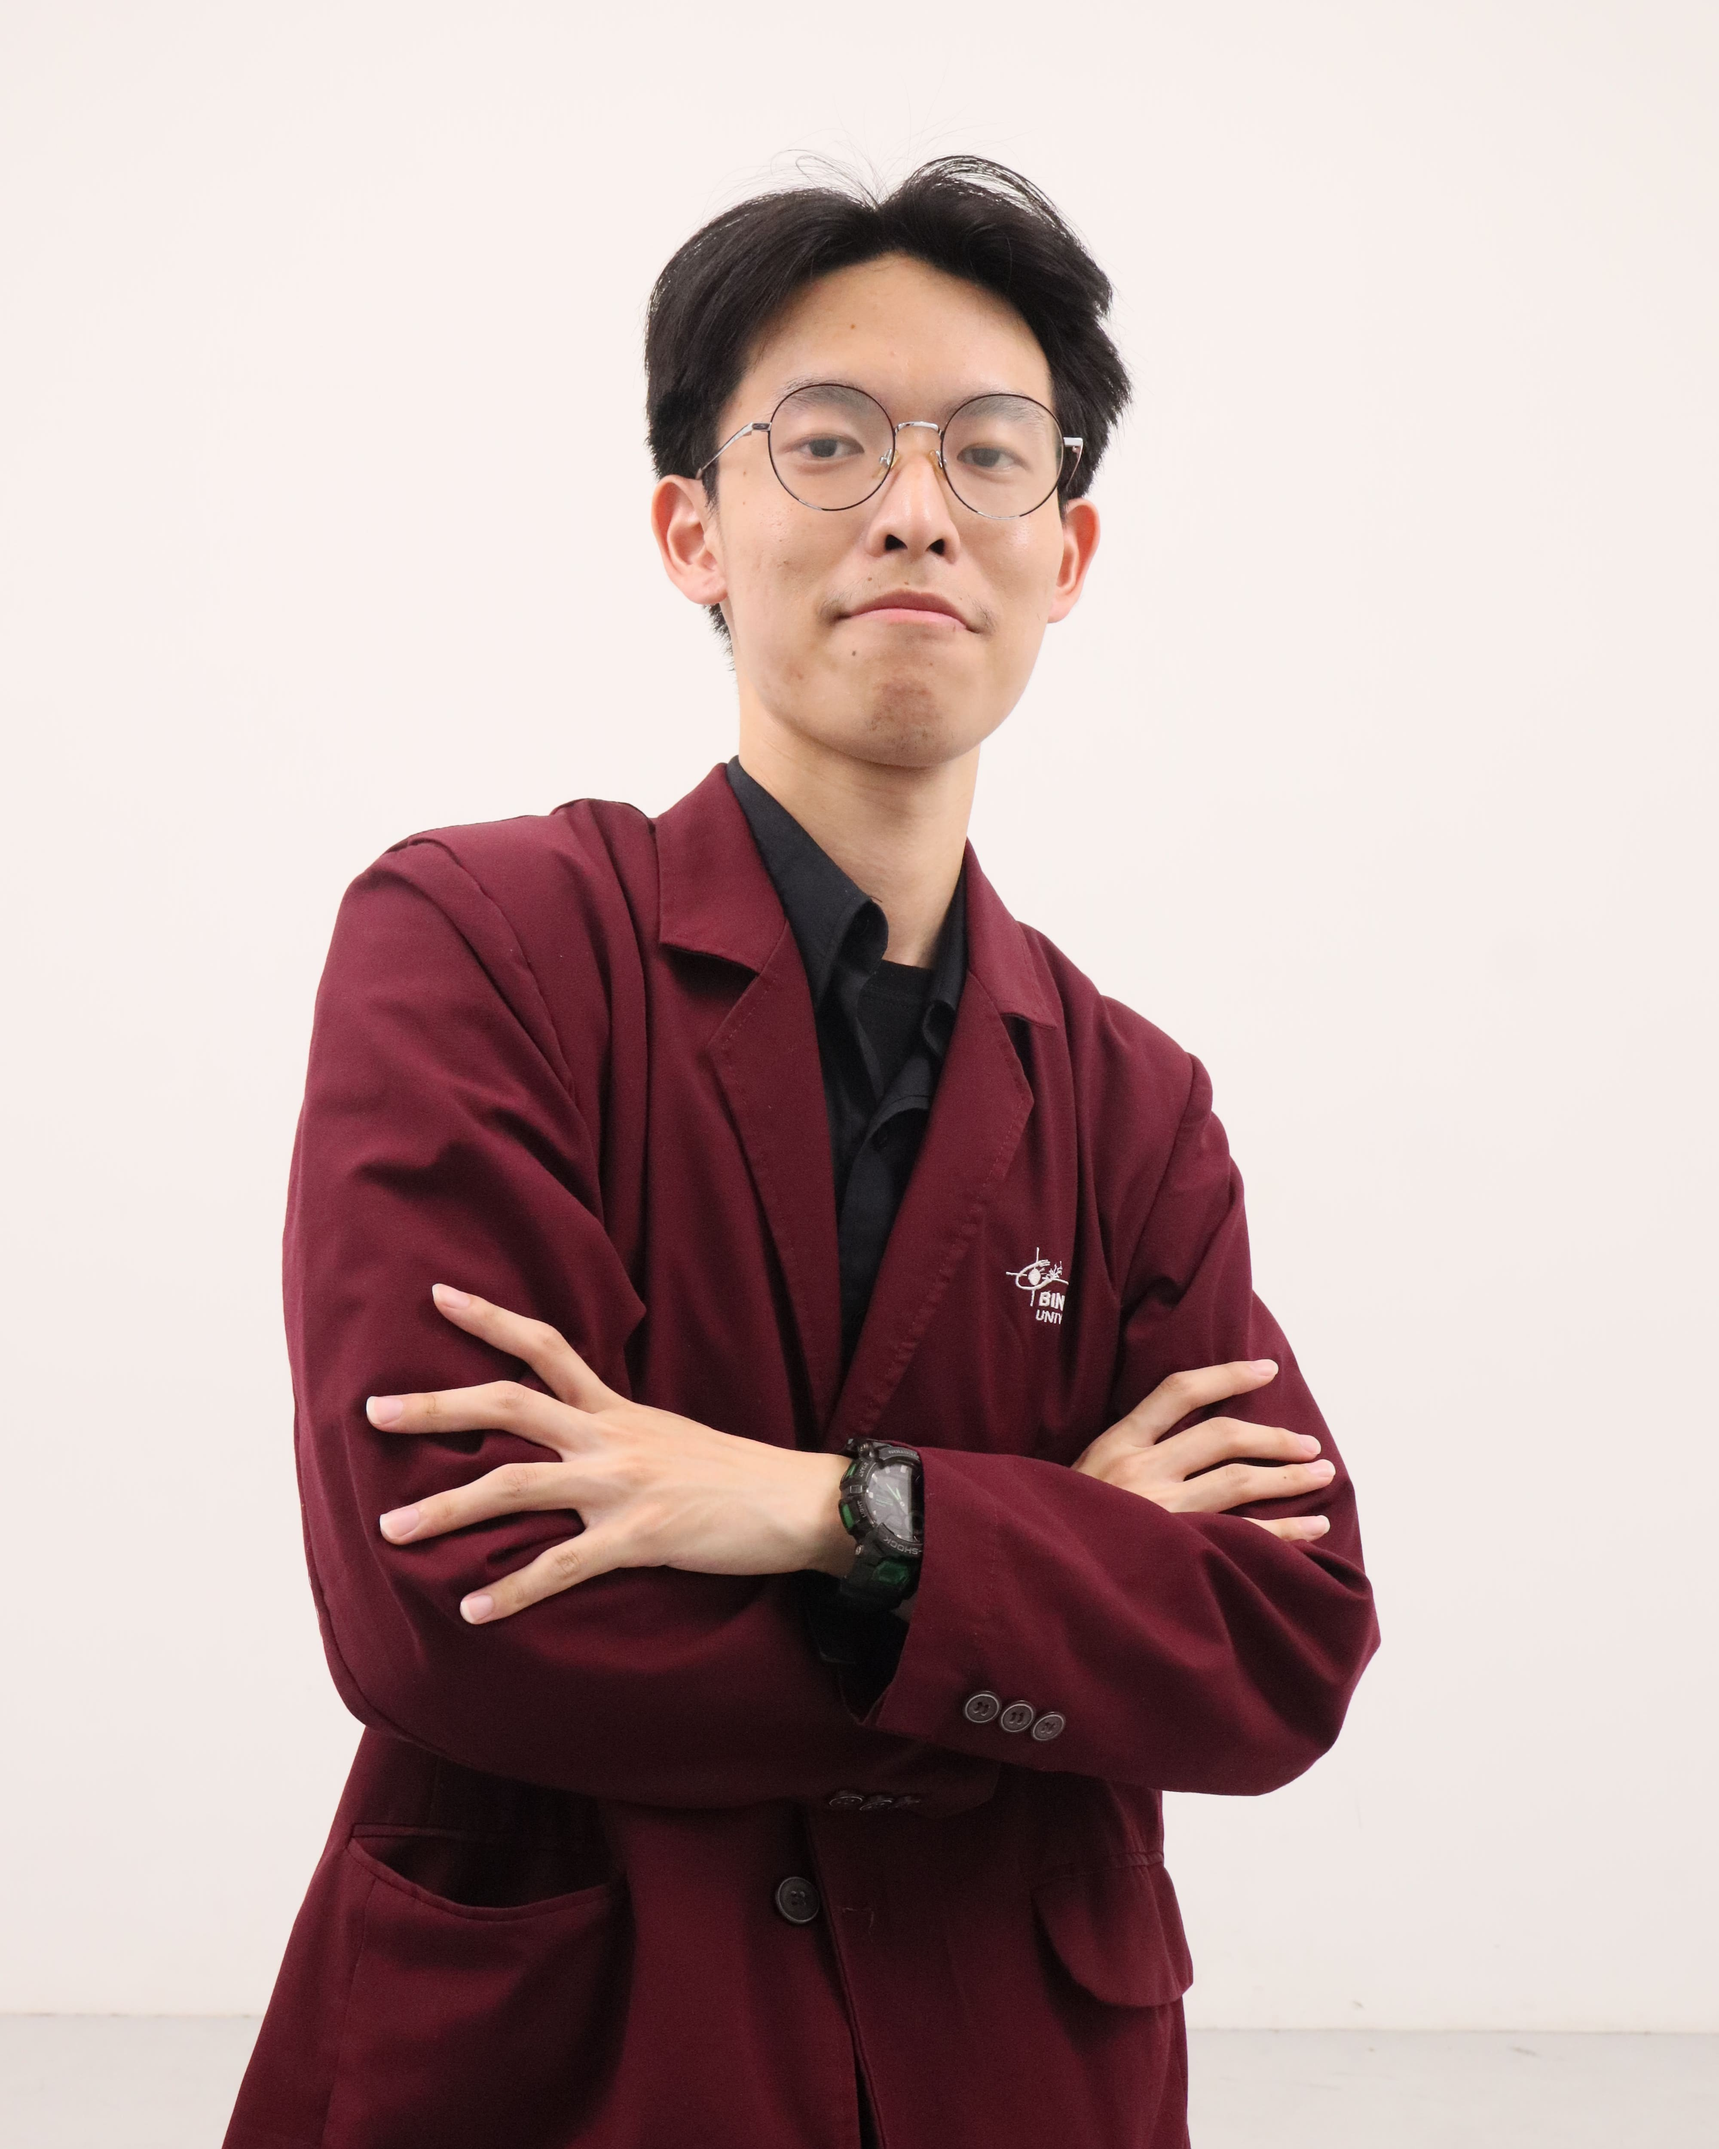
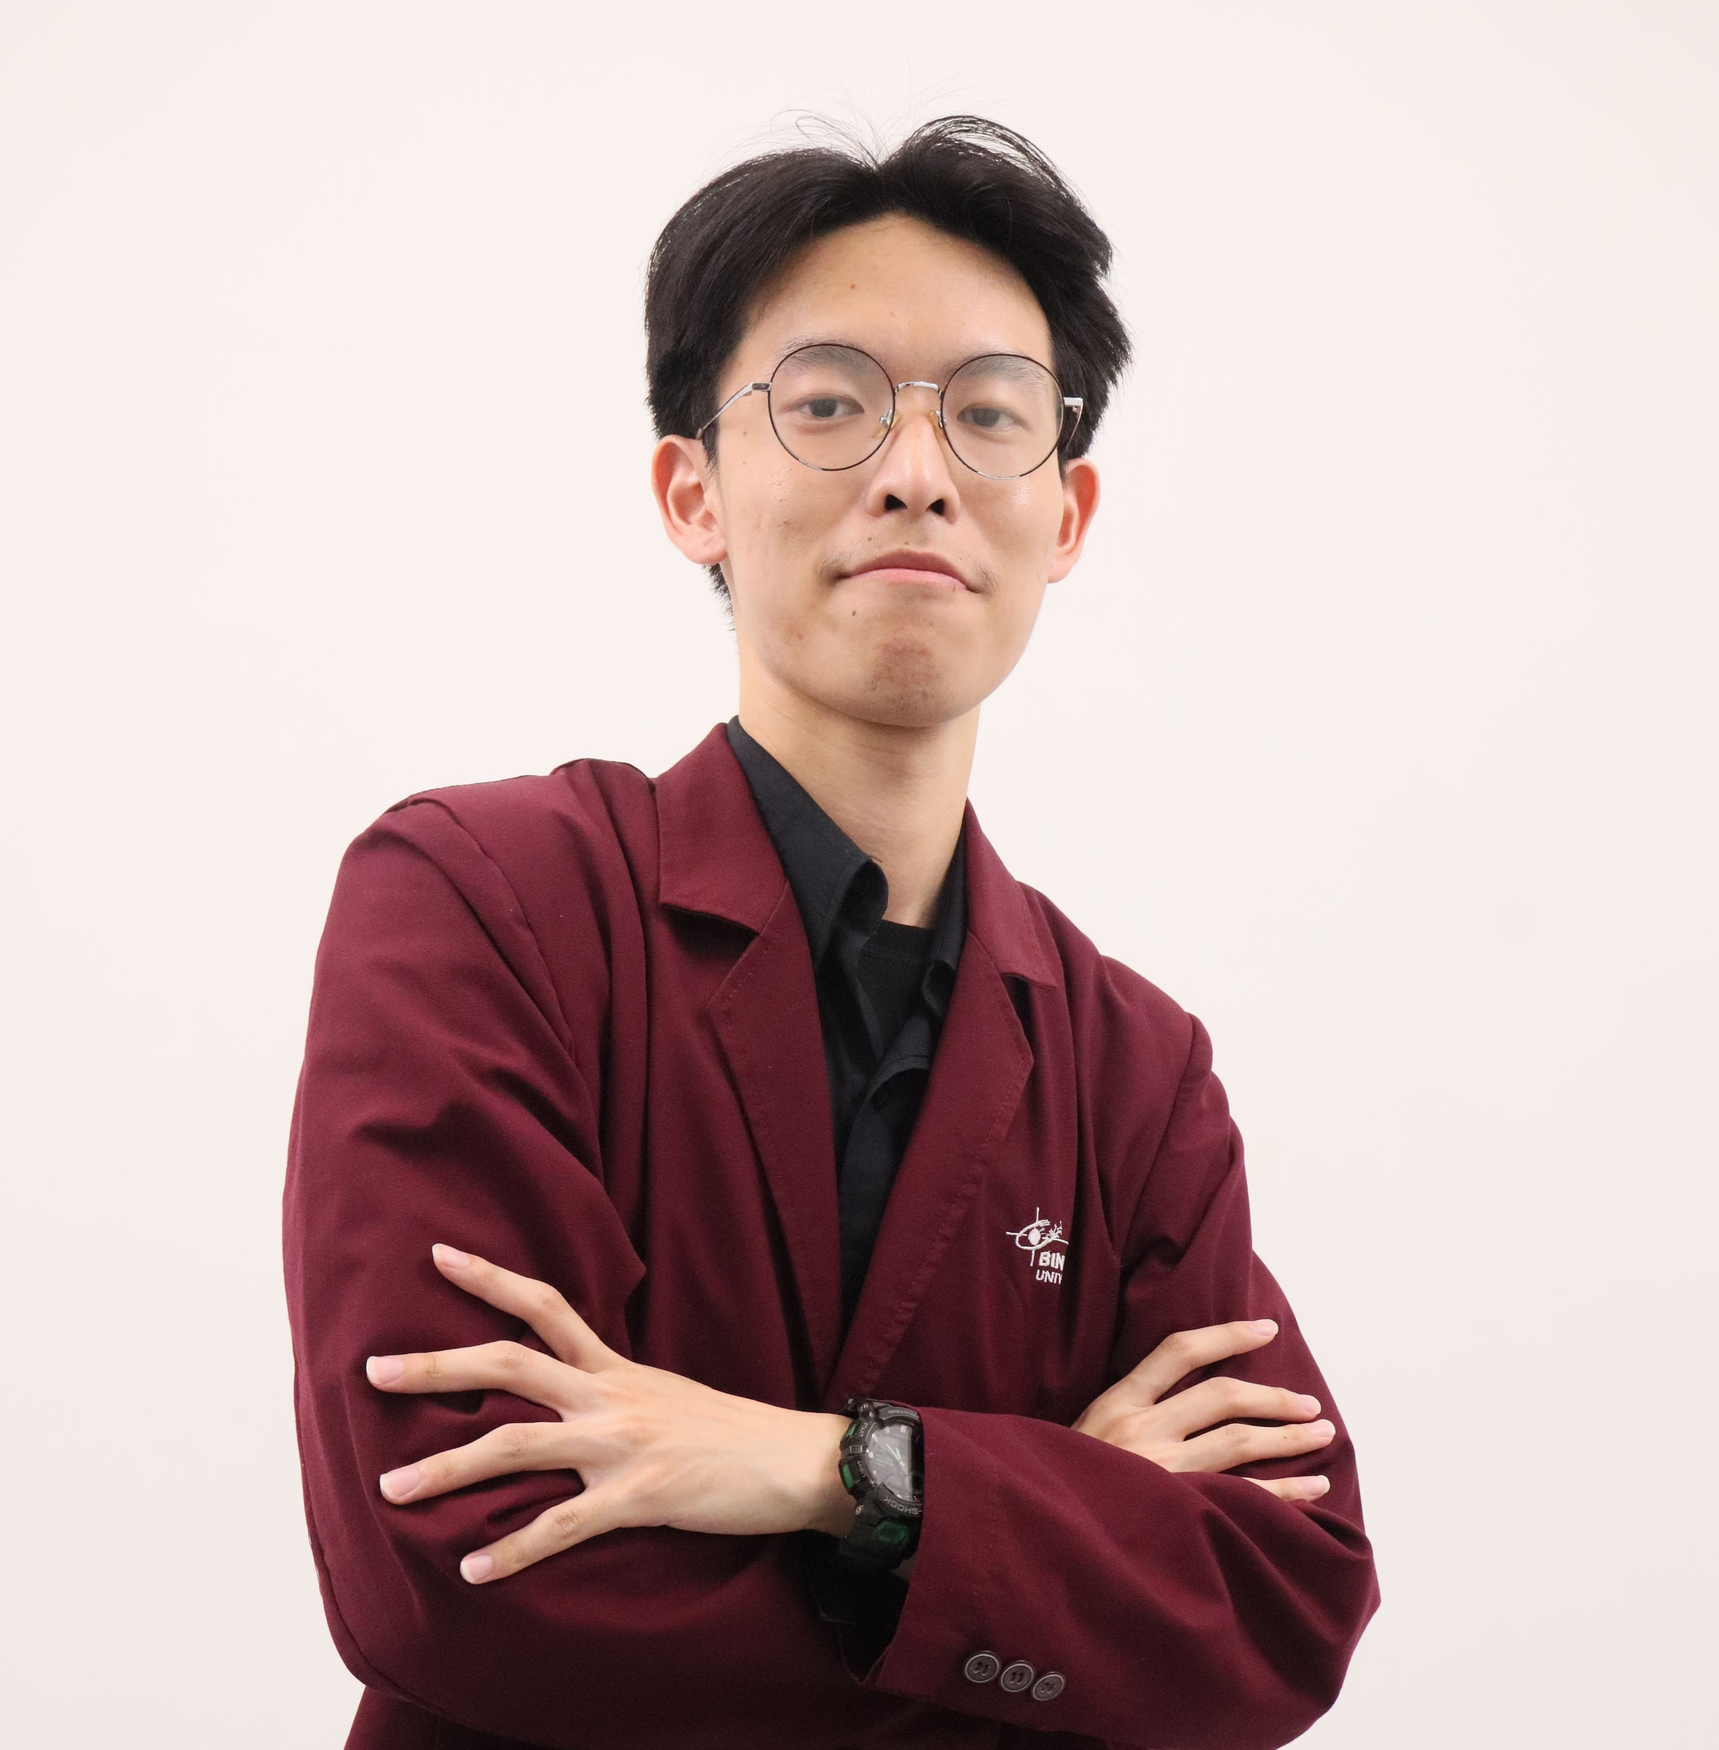
improve ui

Changed region(s): [[0.125, 0.0624, 0.8125, 1.0], [0.875, 0.9357, 0.9062, 0.9668]]

diff --git a/frontend/src/components/demo/SamplePicker.tsx b/frontend/src/components/demo/SamplePicker.tsx
@@ -1,9 +1,20 @@
-import { Check, Loader2, Sparkles, EyeOff, BadgeCheck, CircleSlash, ExternalLink } from "lucide-react";
+import {
+  Check,
+  Loader2,
+  Sparkles,
+  EyeOff,
+  BadgeCheck,
+  CircleSlash,
+  ExternalLink,
+  FolderOpen,
+} from "lucide-react";
 import { cn } from "@/lib/utils";
 import type { SampleEntry, SampleManifest } from "@/data/samples";
 import { getGrade, gradeText } from "@/data/drGrades";
 import { Skeleton } from "@/components/common/Primitives";
 import { useI18n } from "@/i18n/context";
+import { ExternalButton } from "@/components/common/Button";
+import { siteConfig, isLinkConfigured } from "@/config/siteConfig";
 
 /**
  * One-click sample eyes.
@@ -49,10 +60,27 @@ export function SamplePicker({
             </p>
           </div>
         </div>
-        <span className="mono inline-flex items-center gap-1.5 self-start rounded-full border border-border px-3 py-1 text-[10px] uppercase tracking-[0.12em] text-muted-foreground sm:self-center">
-          <EyeOff className="h-3 w-3" aria-hidden="true" />
-          {t("Grade hidden until analysed", "*Grade* disembunyikan hingga dianalisis")}
-        </span>
+        <div className="flex flex-wrap items-center gap-2 sm:shrink-0 sm:justify-end">
+          <span className="mono inline-flex items-center gap-1.5 rounded-full border border-border px-3 py-1 text-[10px] uppercase tracking-[0.12em] text-muted-foreground">
+            <EyeOff className="h-3 w-3" aria-hidden="true" />
+            {t("Grade hidden until analysed", "*Grade* disembunyikan hingga dianalisis")}
+          </span>
+          {/* The full sample set, for downloading or testing outside the demo. */}
+          <ExternalButton
+            href={siteConfig.sampleDatasetUrl}
+            enabled={isLinkConfigured(siteConfig.sampleDatasetUrl)}
+            variant="outline"
+            size="sm"
+            ariaLabel={ts(
+              "Open the sample images folder on Google Drive (new tab)",
+              "Buka folder citra sampel di Google Drive (tab baru)",
+            )}
+          >
+            <FolderOpen className="h-3.5 w-3.5" aria-hidden="true" />
+            {t("Open in Google Drive", "Buka di Google Drive")}
+            <ExternalLink className="h-3 w-3 opacity-60" aria-hidden="true" />
+          </ExternalButton>
+        </div>
       </div>
 
       <div className="flex snap-x gap-3 overflow-x-auto scroll-px-5 p-5 sm:scroll-px-6 sm:p-6">

diff --git a/frontend/src/config/siteConfig.ts b/frontend/src/config/siteConfig.ts
@@ -64,7 +64,11 @@ export const siteConfig = {
   year: 2026,
 
   // External links, all overridable per deployment.
-  sampleDatasetUrl: readEnv(env.VITE_SAMPLE_DATASET_URL),
+  // Public Google Drive folder with the full sample set; an env value overrides it.
+  sampleDatasetUrl: readEnv(
+    env.VITE_SAMPLE_DATASET_URL,
+    "https://drive.google.com/drive/folders/1696R94LIC2lmZ_0-Z6cx2vm_2jRSl3hi?usp=sharing",
+  ),
   paperUrl: readEnv(env.VITE_PAPER_URL),
   githubUrl: readEnv(env.VITE_GITHUB_URL),
   modelApiUrl,
